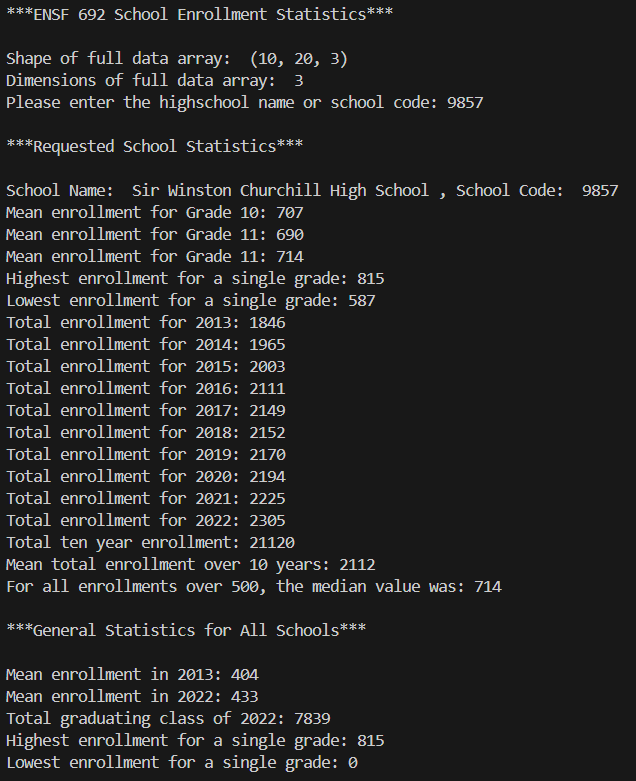
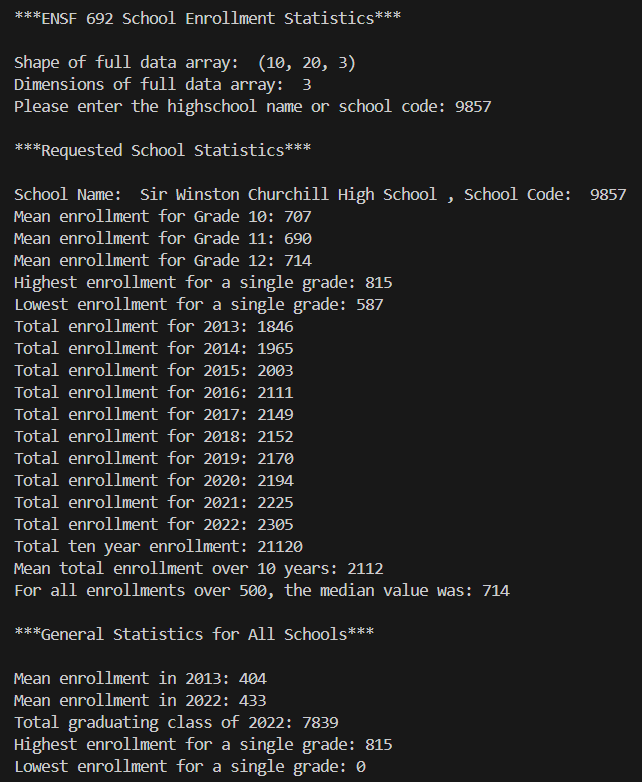
added another helper function and additional documentation

diff --git a/school_data.py b/school_data.py
@@ -1,6 +1,7 @@
 # school_data.py
 # Jacqui Moreland
 
+# A terminal-based application for computing and printing statistics based on given input.
 
 import numpy as np
 from given_data import year_2013, year_2014, year_2015, year_2016, year_2017, year_2018, year_2019, year_2020, year_2021, year_2022
@@ -8,7 +9,7 @@ import math
 
 # Enrollment data contains the number of students enrolled in Grades 10-12 across 20 schools for the years 2013-2022
 # Enrollment data: 1st index = year, 2nd index = school, 3rd index = grade
-enrollement_data = np.array([year_2013.reshape(20,3), year_2014.reshape(20,3), year_2015.reshape(20,3), 
+enrollment_data = np.array([year_2013.reshape(20,3), year_2014.reshape(20,3), year_2015.reshape(20,3), 
                                    year_2016.reshape(20,3), year_2017.reshape(20,3), year_2018.reshape(20,3), 
                                    year_2019.reshape(20,3), year_2020.reshape(20,3), year_2021.reshape(20,3), 
                                    year_2022.reshape(20,3)])
@@ -36,17 +37,37 @@ schools = {0: ['1224', 'Centennial High School'],
            19: ['9865', 'Lester B. Pearson High School']}
 
 
-def total_enrollement(school_index, year_index, year):
+def mean_enrollment(school_index, grade_index, grade):
+    """
+    Calculates the mean enrollment for a single grade and a given school across
+    all years.
+
+    Args:
+        school_index: (int) the index of the enrollment_data array that 
+        corresponds to the school in question
+
+        grade_index: (int) the index of the enrollment_data array that 
+        corresponds to the grade in question
+
+        grade: (int) the grade in question
+
+    """
+    data = enrollment_data[:, school_index, grade_index]  
+    mean = np.nanmean(data, axis=0)
+    print(f"Mean enrollment for Grade {grade}: {math.trunc(mean)}")
+
+
+def total_enrollment(school_index, year_index, year):
     """
     Calculates the total enrollment across all grades for a given school and
     a given year. 
     Returns a subarray of enrollment_data which was used to get to the total. 
 
     Args:
-        school_index: (int) the index of the enrollement_data array that 
+        school_index: (int) the index of the enrollment_data array that 
         corresponds to the school in question
 
-        year_index: (int) the index of the enrollement_data array that 
+        year_index: (int) the index of the enrollment_data array that 
         corresponds to the year in question
 
         year: (int) the year in question
@@ -55,21 +76,16 @@ def total_enrollement(school_index, year_index, year):
         (numpy array) Subarray of enrollment_data
 
     """
-    data = enrollement_data[year_index, school_index, :]
+    data = enrollment_data[year_index, school_index, :]
     total = np.nansum(data)
     print(f"Total enrollment for {year}: {math.trunc(total)}")
     return total
 
 
 def main():
-    """
-    Computes the answers to the questions listed in ENSF 692 - Assignment 2, and prints out the results. 
-
-    """
-
     print("\n***ENSF 692 School Enrollment Statistics***\n")
-    print("Shape of full data array: ", enrollement_data.shape)
-    print("Dimensions of full data array: ", enrollement_data.ndim)
+    print("Shape of full data array: ", enrollment_data.shape)
+    print("Dimensions of full data array: ", enrollment_data.ndim)
 
     # Index for the enrollment_data array corresponding to the input school
     school_index = 0
@@ -93,71 +109,81 @@ def main():
         print(err)
         return
     
+    # The following section calculates statistics for the school indicated by the user. 
     print("\n***Requested School Statistics***\n")
     print("School Name: ", schools[school_index][1], ", School Code: ", schools[school_index][0])
 
-    grade10_all_years = enrollement_data[:, school_index, 0]  
-    mean_grade10_all_years = np.nanmean(grade10_all_years, axis=0)
-    print(f"Mean enrollment for Grade 10: {math.trunc(mean_grade10_all_years)}")
-    
-    grade11_all_years = enrollement_data[:, school_index, 1]
-    mean_grade11_all_years = np.nanmean(grade11_all_years, axis=0)
-    print(f"Mean enrollment for Grade 11: {math.trunc(mean_grade11_all_years)}")
+    # Calculate and print out the mean enrollment for Grades 10, 11, and 12 across all years.
+    mean_enrollment(school_index=school_index, grade_index=0, grade=10) 
+    mean_enrollment(school_index=school_index, grade_index=1, grade=11)
+    mean_enrollment(school_index=school_index, grade_index=2, grade=12)
 
-    grade12_all_years = enrollement_data[:, school_index, 2]
-    mean_grade12_all_years = np.nanmean(grade12_all_years, axis=0) 
-    print(f"Mean enrollment for Grade 11: {math.trunc(mean_grade12_all_years)}")
-
-    all_grades_all_years = enrollement_data[:, school_index, :]
+    # Calculate and print out the highest enrollment for any grade across all years. 
+    all_grades_all_years = enrollment_data[:, school_index, :]
     all_grades_all_years.reshape(1, 30)
     max_all_grades_all_years = np.nanmax(all_grades_all_years)
     print(f"Highest enrollment for a single grade: {math.trunc(max_all_grades_all_years)}")
 
+    # Calculate and print out the lowest enrollment for any grade across all years. 
     min_all_grades_all_years = np.nanmin(all_grades_all_years)
     print(f"Lowest enrollment for a single grade: {math.trunc(min_all_grades_all_years)}")
 
-    # Total enrollment for a specific school across all years. 
-    total_2013 = total_enrollement(school_index=school_index, year_index=0, year=2013)
-    total_2014 = total_enrollement(school_index=school_index, year_index=1, year=2014)
-    total_2015 = total_enrollement(school_index=school_index, year_index=2, year=2015)
-    total_2016 = total_enrollement(school_index=school_index, year_index=3, year=2016)
-    total_2017 = total_enrollement(school_index=school_index, year_index=4, year=2017)
-    total_2018 = total_enrollement(school_index=school_index, year_index=5, year=2018)
-    total_2019 = total_enrollement(school_index=school_index, year_index=6, year=2019)
-    total_2020 = total_enrollement(school_index=school_index, year_index=7, year=2020)
-    total_2021 = total_enrollement(school_index=school_index, year_index=8, year=2021)
-    total_2022 = total_enrollement(school_index=school_index, year_index=9, year=2022)
+    # Calculate and print out the total enrollment for a specific school for years 2013-2022. 
+    total_2013 = total_enrollment(school_index=school_index, year_index=0, year=2013)
+    total_2014 = total_enrollment(school_index=school_index, year_index=1, year=2014)
+    total_2015 = total_enrollment(school_index=school_index, year_index=2, year=2015)
+    total_2016 = total_enrollment(school_index=school_index, year_index=3, year=2016)
+    total_2017 = total_enrollment(school_index=school_index, year_index=4, year=2017)
+    total_2018 = total_enrollment(school_index=school_index, year_index=5, year=2018)
+    total_2019 = total_enrollment(school_index=school_index, year_index=6, year=2019)
+    total_2020 = total_enrollment(school_index=school_index, year_index=7, year=2020)
+    total_2021 = total_enrollment(school_index=school_index, year_index=8, year=2021)
+    total_2022 = total_enrollment(school_index=school_index, year_index=9, year=2022)
 
+    # Calculate and print out the total enrollment for a specific school across all 10 years.
     total_all_years = np.nansum(all_grades_all_years)
     print(f"Total ten year enrollment: {math.trunc(total_all_years)}")
 
+    # Calculate and print out the mean total enrollment for a specific school across all 10 years. 
     totals = np.array([total_2013, total_2014, total_2015, total_2016, total_2017, 
                        total_2018, total_2019, total_2020, total_2021, total_2022])
     mean_totals = np.nanmean(totals)
     print(f"Mean total enrollment over 10 years: {math.trunc(mean_totals)}")
 
+    # Print out the median value of enrollments over 500 across all 10 years for a specific school. 
+    # If there were no enrollments above 500, print out that out. 
     over_500 = all_grades_all_years > 500
-    median_over_500 = np.nanmedian(all_grades_all_years[over_500])
-    print(f"For all enrollments over 500, the median value was: {math.trunc(median_over_500)}")
+    if np.any(over_500) == True:
+        median_over_500 = np.nanmedian(all_grades_all_years[over_500])
+        print(f"For all enrollments over 500, the median value was: {math.trunc(median_over_500)}")
+    else:
+        print("No enrollments over 500.")
+    
 
+    # The following section calculates non-school speficic statistics.
     print("\n***General Statistics for All Schools***\n")
 
-    all_schools_all_grades_2013 = enrollement_data[0, :, :]
+    # Calulate and print out the mean enrollment in 2013. 
+    all_schools_all_grades_2013 = enrollment_data[0, :, :]
     mean_2013 = np.nanmean(all_schools_all_grades_2013)
     print(f"Mean enrollment in 2013: {math.trunc(mean_2013)}")
 
-    all_schools_all_grades_2022 = enrollement_data[9, :, :]
+    # Calulate and print out the mean enrollment in 2022.
+    all_schools_all_grades_2022 = enrollment_data[9, :, :]
     mean_2022 = np.nanmean(all_schools_all_grades_2022)
     print(f"Mean enrollment in 2022: {math.trunc(mean_2022)}")
 
-    all_schools_grade12_2022 = enrollement_data[9, :, 2]
+    # Calulate and print out the total number of students in Grade 12 in 2022.
+    all_schools_grade12_2022 = enrollment_data[9, :, 2]
     total_grad_2022 = np.nansum(all_schools_grade12_2022)
     print(f"Total graduating class of 2022: {math.trunc(total_grad_2022)}")
 
-    max_enrollment = np.nanmax(enrollement_data)
+    # Calulate and print out the highest enrollment across all years, all schools and all grades.
+    max_enrollment = np.nanmax(enrollment_data)
     print(f"Highest enrollment for a single grade: {math.trunc(max_enrollment)}")
 
-    min_enrollment = np.nanmin(enrollement_data)
+    # Calulate and print out the lowest enrollment across all years, all schools and all grades.
+    min_enrollment = np.nanmin(enrollment_data)
     print(f"Lowest enrollment for a single grade: {math.trunc(min_enrollment)}\n")
 
 
